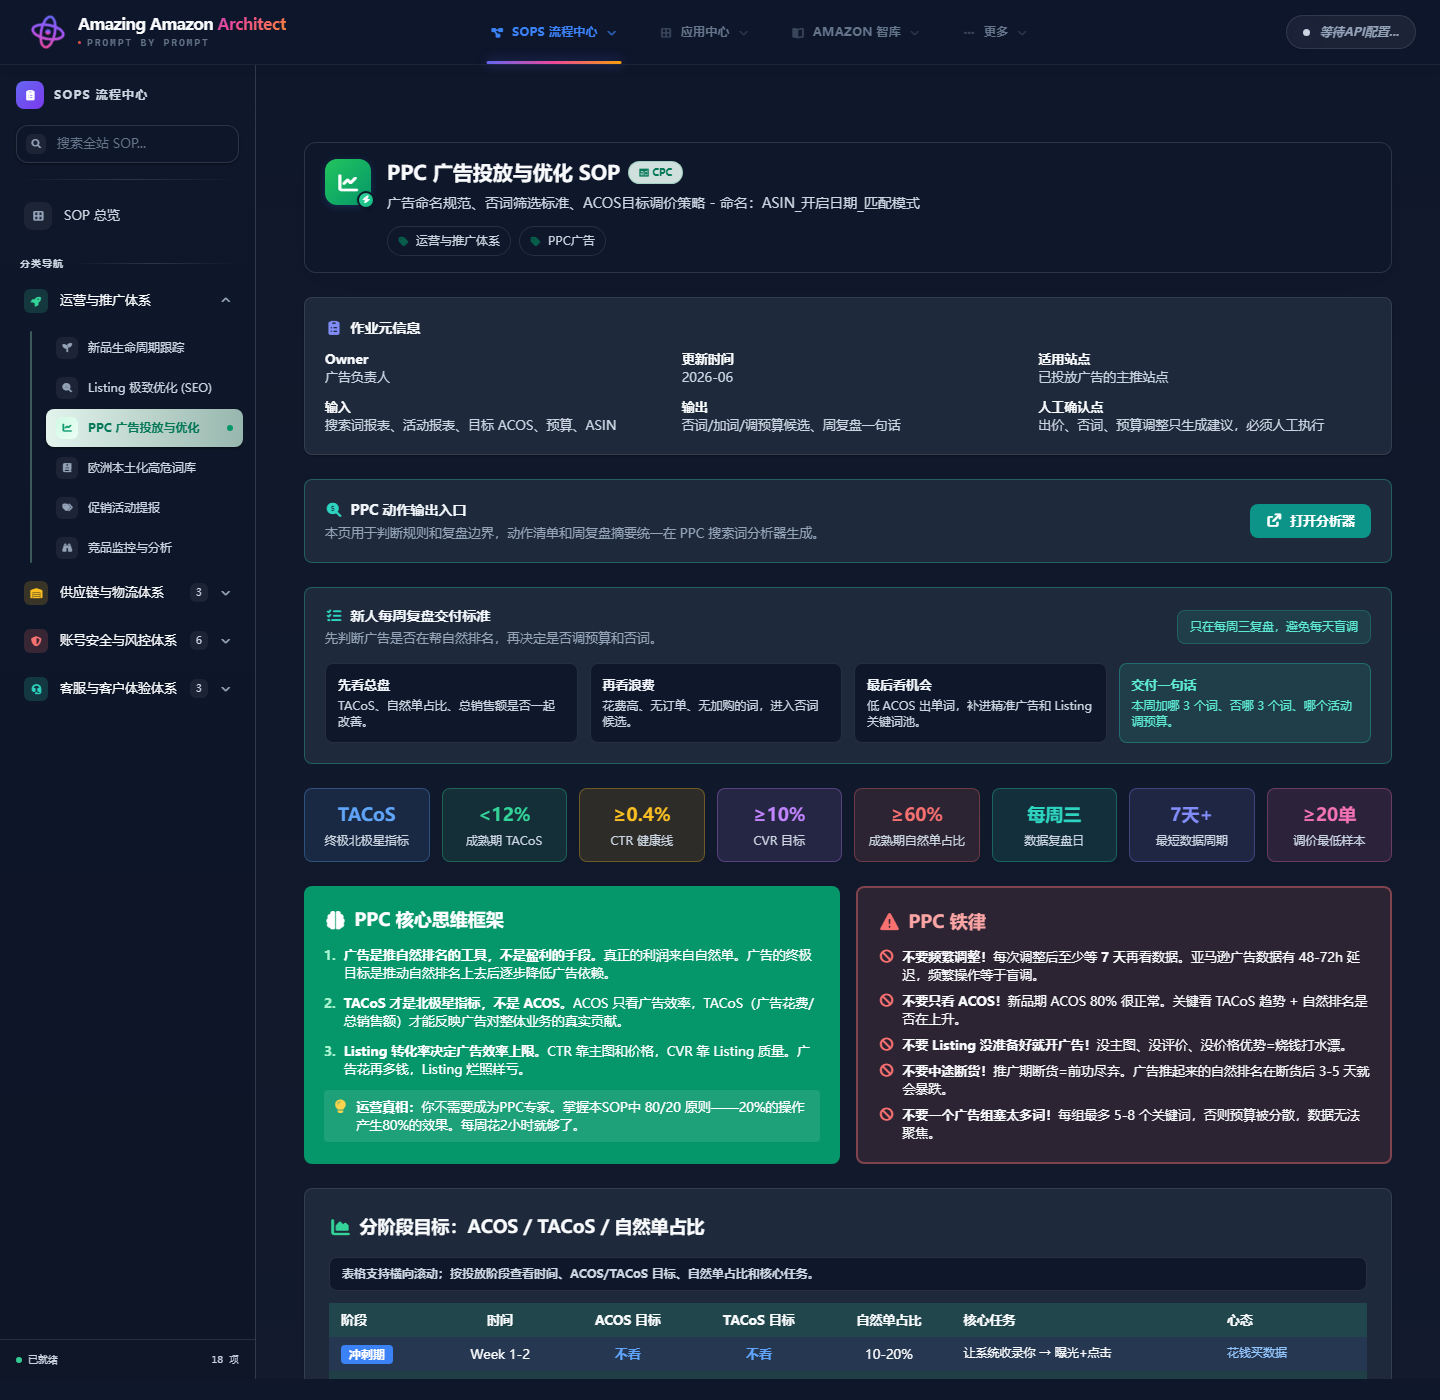
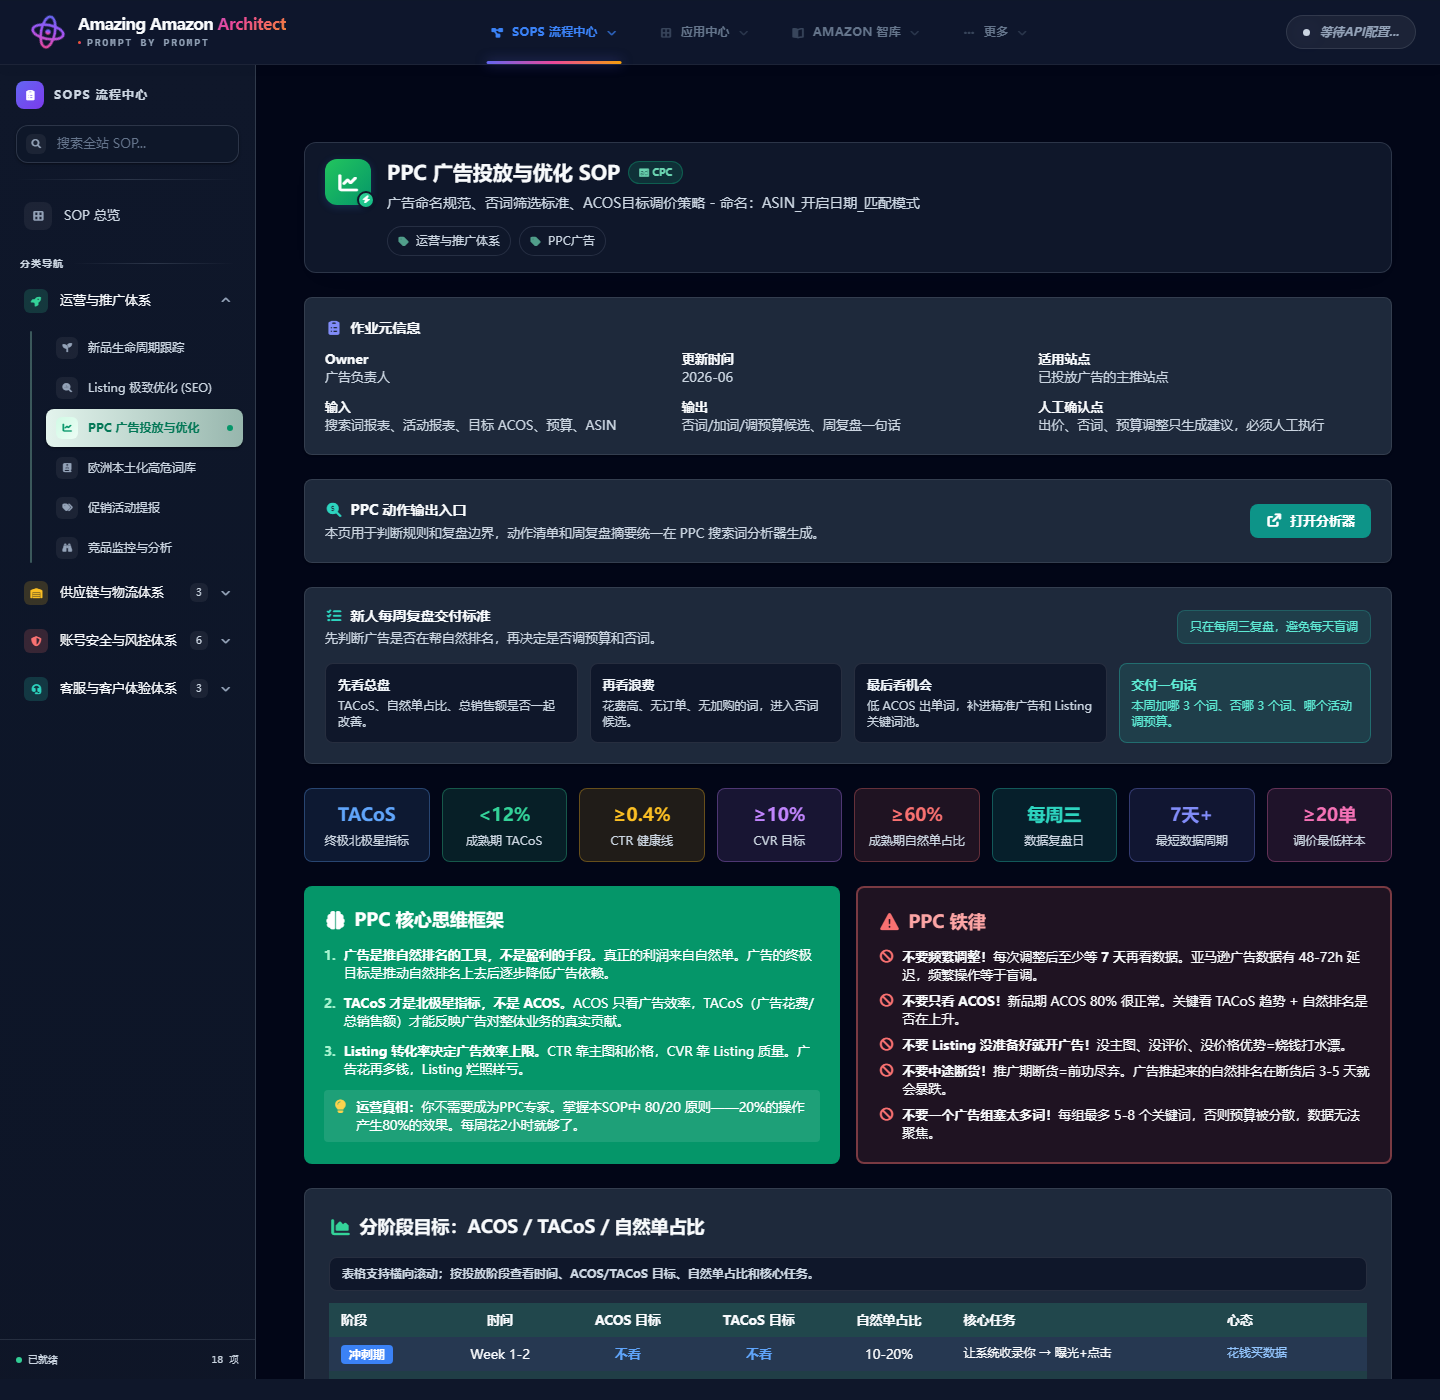
fix(theme): repair union-merge CSS blocks; post-merge gates green
Close three unclosed rule blocks introduced by the union merge of dual
dark sections (amz hero tag, ziniao notice title, sops scope note) and
drop a duplicated ours-fragment in favor of main's tri-selector rules.
ci:quality, build, theme/settings unit suites, bridge smoke and the
2x3 orthogonality matrix all pass on the merged tree.

Changed region(s): [[0.2188, 0.3686, 0.5625, 0.3993], [0.2188, 0.43, 0.4375, 0.4607], [0.4375, 0.0921, 0.4688, 0.1536]]

diff --git a/src/modules/sops/sops_style.css b/src/modules/sops/sops_style.css
@@ -1207,6 +1207,8 @@ body .npi-lifecycle-table .npi-checkbox-hit input[type='checkbox'][data-action='
 .dark .sops-overview-scope-note h3,
 [data-color-mode-resolved='dark'] .sops-overview-scope-note h3 {
   color: var(--color-indigo-200) !important;
+}
+
 /* ==================== 深色主题（Theme dual-safe） ==================== */
 /* Ownership violet 保持色相，soft/surface 改为低明度 color-mix；文字走语义 token */
 .dark .sops-overview,
@@ -1238,9 +1240,6 @@ body .npi-lifecycle-table .npi-checkbox-hit input[type='checkbox'][data-action='
 
 .dark .sops-overview-scope-note p,
 [data-color-mode-resolved='dark'] .sops-overview-scope-note p,
-.dark .sops-overview-scope-note i,
-[data-color-mode-resolved='dark'] .sops-overview-scope-note i {
-  color: var(--color-indigo-300) !important;
 [data-theme='dark'] .sops-overview-scope-note p {
   color: var(--color-text-secondary, #cbd5e1) !important;
 }

diff --git a/src/modules/more/more_style.css b/src/modules/more/more_style.css
@@ -874,6 +874,8 @@
   border-color: color-mix(in srgb, var(--color-cyan-400) 30%, transparent);
   background: color-mix(in srgb, var(--color-cyan-400) 12%, var(--surface-card)) !important;
   color: var(--color-cyan-200) !important;
+}
+
 /* ==================== 更多总览深色主题（Theme dual-safe） ==================== */
 /* Ownership emerald 保持色相；hero 洗底转低明度 color-mix，文字走语义 token */
 .dark .more-overview .wb-container--simple,

diff --git a/src/modules/amz_hub/amz_hub_style.css b/src/modules/amz_hub/amz_hub_style.css
@@ -471,6 +471,8 @@
 [data-color-mode-resolved='dark'] .amz-hub-overview .amz-hub-hero .wb-tag {
   border-color: rgba(148, 163, 184, 0.24) !important;
   box-shadow: none;
+}
+
 /* ==================== 智库总览深色主题（Theme dual-safe） ==================== */
 /* Ownership orange/red 保持色相；hero/badge 洗底转低明度 color-mix，文字走语义 token */
 .dark .amz-hub-overview,
